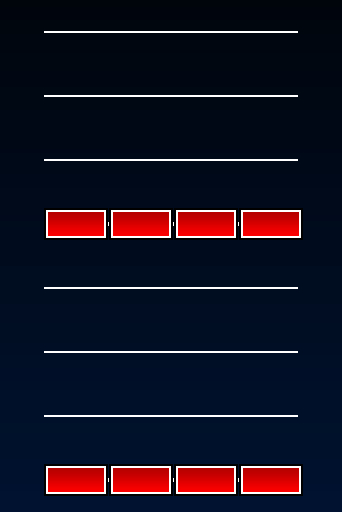
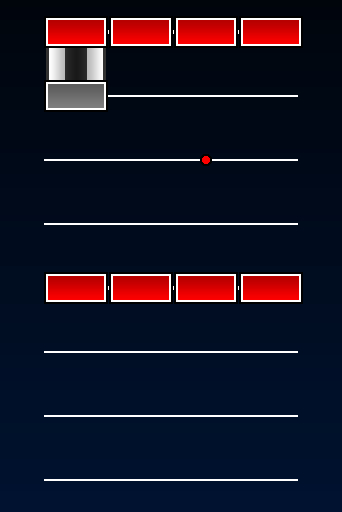
Fix a lot of kbx issues

diff --git a/measure/index.js b/measure/index.js
@@ -7,8 +7,13 @@ const main = async () => {
   // Selected mode/style input
   const curMode = 'kb4';
   const curStyle = '' || defaultstyle.defaultstyle[curMode];
-  const reverse = true;
+  const reverse = false;
   const showMeasureLines = true;
+  const curModeOFStyle = (curMode) => {
+    if (curMode.includes('kb')) return 'kbx'
+
+    return curMode
+  }
 
   // Noteskin
   const NoteSkin = new NoteSkinFile.NoteSkinClass(curMode, curStyle);
@@ -297,11 +302,17 @@ const main = async () => {
               const measureNote = await NoteSkin.collectMeasure('tapNote', timing, endChar, noteType, curLane);
 
               if (willHeadEnd(curLane, line + 1, measure)) {
-                if (curMode === 'pnm') {
-                  lastNoteByLane[curLane] = ['roll', noteX, noteY + measureNote.height / 2 + 24, timing + endChar]; // Roll Hook
-                } else {
-                  lastNoteByLane[curLane] = ['roll', noteX, noteY + measureNote.height / 2, timing + endChar]; // Roll Hook
+                switch (curModeOFStyle(curMode)) {
+                  case 'pnm':
+                    lastNoteByLane[curLane] = ['roll', noteX, noteY + measureNote.height / 2 + 24, timing + endChar];
+                    break;
+                  case 'kbx':
+                    lastNoteByLane[curLane] = ['roll', noteX, noteY + 16 + measureNote.height / 2, timing + endChar];
+                    break;
+                  default:
+                    lastNoteByLane[curLane] = ['roll', noteX, noteY + measureNote.height / 2, timing + endChar];
                 }
+
               } else {
                 const body = await NoteSkin.collectAsset(`rollBody`, timing, endChar, noteType, curLane);
                 const note = await NoteSkin.collectAsset(`tapNote`, timing, endChar, noteType, curLane);
@@ -335,6 +346,9 @@ const main = async () => {
                 case 'pnm':
                   background.blit(body, bodyX, reverse ? bodyY - 92 : bodyY - 24);
                   break;
+                case 'kbx':
+                  background.blit(body, bodyX, reverse ? bodyY - 92 : bodyY - 16);
+                  break;
                 case 'gdgf':
                 case 'bm':
                   background.blit(body, bodyX, reverse ? bodyY - 96 : bodyY - 32);
@@ -360,14 +374,31 @@ const main = async () => {
                 bottom.flip(false, true);
               }
 
-              if (curMode === 'pump' && bodyName === 'mine' && reverse) {
-                background.blit(bottom, noteX, noteY + measureBottom.height - 32);
-              } else {
-                background.blit(
-                  bottom,
-                  noteX,
-                  noteY + measureBottom.height + (reverse ? (curMode === 'pump' ? -64 : -32) : 0)
-                );
+              switch (curModeOFStyle(curMode)) {
+                case 'pump':
+                  if (bodyName === 'mine' && reverse) {
+                    background.blit(bottom, noteX, noteY + measureBottom.height - 32);
+                  } else {
+                    background.blit(
+                      bottom,
+                      noteX,
+                      noteY + measureBottom.height + (reverse ? -64 : 0)
+                    );
+                  }
+                  break;
+                case 'kbx':
+                  background.blit(
+                    bottom,
+                    noteX,
+                    noteY + measureBottom.height - 32
+                  );
+                  break;
+                default:
+                  background.blit(
+                    bottom,
+                    noteX,
+                    noteY + measureBottom.height + (reverse ? -32 : 0)
+                  );
               }
 
               if (bodyName !== 'mine') {
@@ -379,16 +410,41 @@ const main = async () => {
                   curLane
                 );
 
-                if (curMode === 'pnm') {
-                  background.blit(note, bodyX, bodyY - measureNote.height / 2 - 24);
-                } else {
-                  let cursedNoteY = bodyY - measureNote.height / 2 - (['bm', 'gdgf'].includes(curMode) ? 26 : 0)
-                  if (curMode === 'gh' && curLane === 5) cursedNoteY = reverse ? cursedNoteY + 32 : cursedNoteY - 32 // HACK: This is for strum holds. (Reverse false)
-                  background.blit(
-                    note,
-                    bodyX,
-                    cursedNoteY
-                  );
+                switch (curModeOFStyle(curMode)) {
+                  case 'pnm':
+                    background.blit(note, bodyX, bodyY - measureNote.height / 2 - 24);
+                    break;
+                  case 'kbx':
+                    background.blit(note, bodyX, bodyY - measureNote.height / 2 - 16);
+                    break;
+                  case 'bm':
+                  case 'gdgf':
+                    const fixedBodyY = bodyY - measureNote.height / 2 - 26
+                    background.blit(
+                      note,
+                      bodyX,
+                      fixedBodyY
+                    );
+                    break;
+                  case 'gh':
+                    let ghFixedBodyY = bodyY - measureNote.height / 2 - 26
+
+                    if (curLane === 5) ghFixedBodyY = reverse ? ghFixedNoteY + 32 : ghFixedNoteY - 32 // HACK: This is for strum holds. (Reverse false)
+
+                    background.blit(
+                      note,
+                      bodyX,
+                      ghFixedBodyY
+                    );
+                    break;
+                  default:
+                    let cursedNoteY = bodyY - measureNote.height / 2
+                    background.blit(
+                      note,
+                      bodyX,
+                      cursedNoteY
+                    );
+                  break;
                 }
 
                 if (['bm', 'pnm', 'para'].includes(curMode)) {
@@ -403,7 +459,13 @@ const main = async () => {
             {
               const mine = await NoteSkin.collectAsset(`mine`, timing, endChar, noteType, curLane);
 
-              background.blit(mine, noteX, noteY);
+              switch (curModeOFStyle(curMode)) {
+                case 'kbx':
+                  background.blit(mine, noteX, noteY - 16);
+                  break;
+                default:
+                  background.blit(mine, noteX, noteY);
+              }
             }
             break;
           case 'D': // MineField End/Lift Hold End/ Lift Roll End
@@ -483,14 +545,23 @@ const main = async () => {
 
                 if (reverse) bottom.flip(false, true);
 
-                background.blit(bottom, noteX, noteY + measureMineBottom.height + (reverse ? -32 : 0));
+                switch (curModeOFStyle(curMode)) {
+                  case 'kbx':
+                    background.blit(bottom, noteX, noteY + measureMineBottom.height - 32);
+                    break;
+                  default:
+                    background.blit(bottom, noteX, noteY + measureMineBottom.height + (reverse ? -32 : 0));
+                }
 
                 const note = await NoteSkin.collectAsset(`tapNote`, timing, endChar, noteType + 'L', curLane);
 
-                switch (curMode) {
+                switch (curModeOFStyle(curMode)) {
                   case 'gh':
                     background.blit(note, bodyX, bodyY - (curLane === 5 ? (reverse ? -32 : 32) : (measureNote.height / 2)));
                   break
+                  case 'kbx':
+                    background.blit(note, bodyX, bodyY - measureNote.height / 2 - 16);
+                    break;
                   default:
                     background.blit(note, bodyX, bodyY - measureNote.height / 2);
                   break

diff --git a/measure/noteskins/kbx/default/config.js b/measure/noteskins/kbx/default/config.js
@@ -155,6 +155,11 @@ const config = {
 
         return bottom;
       }
+      case "mine": {
+        const mine = await jimp.read(path.join(__dirname, `/mine.png`));
+
+        return mine;
+      }
       default:
         return fallbackNoteskin.collectAsset(
           asset,

diff --git a/measure/stylechart.js b/measure/stylechart.js
@@ -184,7 +184,7 @@ exports.stylechart = {
     ['00000', '00000', '00000', '00000']
   ],
   "kb4-single": [
-    ['1111', '0000', '0000', '0000'],
+    ['2111', 'DL000', '00M0', '0000'],
     ['1111', '0000', '0000', '0000']
   ]
 };
